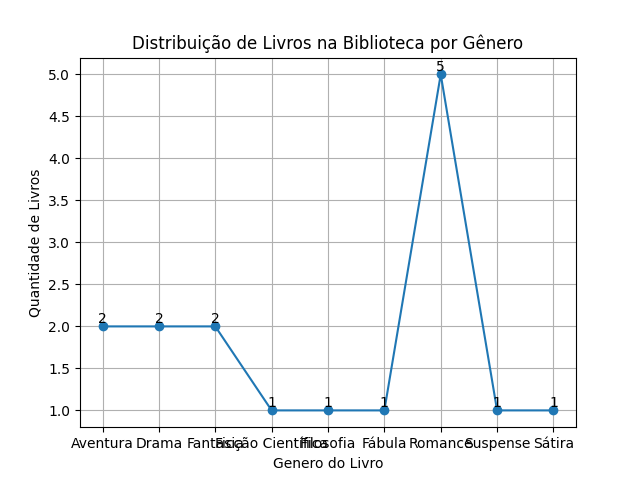
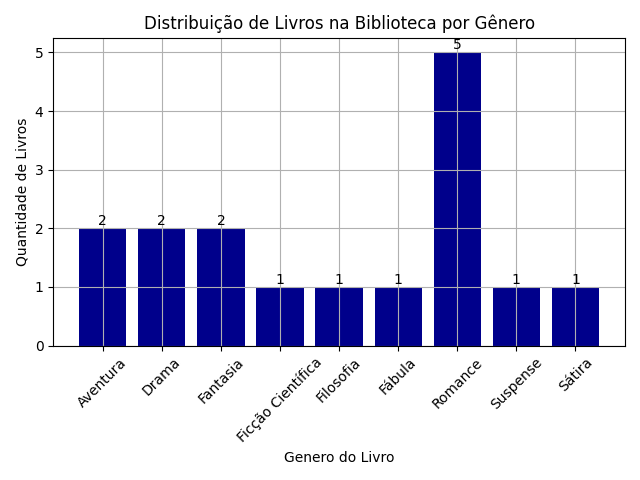
13SET2025
Correção do trabalho da unidade 2 e atualização do README.

diff --git a/ADS-Trabalho-Unidade_2-Biblioteca.py b/ADS-Trabalho-Unidade_2-Biblioteca.py
@@ -1,109 +1,116 @@
 import matplotlib.pyplot as plt
+
 # Classe para representar um livro
-class Livro:
-  def __init__(self, titulo, autor, genero, quantidade):
-    self.titulo = titulo
-    self.autor = autor
-    self.genero = genero
-    self.quantidade = quantidade
-  def __str__(self):
+class Livro: # Define a classe Livro
+
+  def __init__(self, titulo, autor, genero, quantidade): # Construtor da classe Livro
+    self.titulo = titulo # Atributo titulo
+    self.autor = autor # Atributo autor
+    self.genero = genero # Atributo genero
+    self.quantidade = quantidade # Atributo quantidade
+
+  def __str__(self): # Método para representar o livro como string
     return f'\033[32m{self.titulo}\033[0m por \033[33m{self.autor}\033[0m, Gênero: \033[31m{self.genero}\033[0m, Quantidade disponível: \033[36m{self.quantidade}\033[0m'
 
 # Criar uma lista de livros
-biblioteca = []
+biblioteca = [] # Lista para armazenar os livros
 
 # Função para adicionar um livro à biblioteca
-def adicionar_livro(titulo, autor, genero, quantidade):
-  novo_livro = Livro(titulo, autor, genero, quantidade)
-  biblioteca.append(novo_livro)
-  print(f'{titulo} foi adicionado à biblioteca.')
+def adicionar_livro(titulo, autor, genero, quantidade): # Função para adicionar livro
+  novo_livro = Livro(titulo, autor, genero, quantidade) # Cria uma nova instância de Livro
+  biblioteca.append(novo_livro) # Adiciona o novo livro à lista biblioteca
+  print(f'\n\033[32m{titulo}\033[0m foi adicionado à biblioteca.') # Confirmação de adição
 
 # Função para excluir livro da biblioteca
-def excluir_livro(titulo):
-  for livro in biblioteca:
-    if livro.titulo.lower() == titulo.lower():
-      biblioteca.remove(livro)
-      print(f'\n\033[31m{titulo} foi removido da biblioteca.\033[m')
-      return
-  print('Livro não encontrado.')
+def excluir_livro(titulo): # Função para excluir livro
+  for livro in biblioteca: # Percorre a lista de livros
+    if livro.titulo.lower() == titulo.lower(): # Verifica se o título corresponde (ignorando maiúsculas/minúsculas)
+      biblioteca.remove(livro) # Remove o livro da lista
+      print(f'\n\033[31m{titulo} foi removido da biblioteca.\033[m') # Confirmação de remoção
+      return # Sai da função após remover o livro
+  print('Livro não encontrado.') # Mensagem se o livro não for encontrado
 
 # Função para listar todos os livros na biblioteca
-def listar_livros():
+def listar_livros(): # Função para listar livros
   print(f'\n\033[34mLivros Disponíveis na Biblioteca\033[0m')
-  for livro in biblioteca:
+  for livro in biblioteca: # Percorre a lista de livros
     print(livro)
 
 # Função para buscar livro na biblioteca
-def buscar_livro(titulo):
-  for livro in biblioteca:
-    if livro.titulo.lower() == titulo.lower():
-      return livro
-  return None
-
-# Definição de Menu de Opções
-def menu_principal():
-  while True:
-    menu = int(input('\nEscolha a função desejada:\n 1 - Cadastrar um Livro\n 2 - Excluir um Título  do Cadastro\n 3 - Exibir Lista de Livros\n 4 - Busca por Livro\n 5 - Exibir Gráfico por Gênero\n 6 - Sair\n'))
-    if menu == 1:
-      titulo = input('Digite o título do livro: ')
-      autor = input('Digite o autor do livro: ')
-      genero = input('Digite o gênero do livro: ')
-      quantidade = int(input('Digite a quantidade disponível do livro: '))
-      adicionar_livro(titulo, autor, genero, quantidade)
-    
-    elif menu == 2:
-      titulo = input('Digite o título do livro que deseja excluir: ')
-      excluir_livro(titulo)
-      
-    elif menu == 3:
-      listar_livros()
-    
-    elif menu == 4:
-      titulo = input('Digite o título do livro que deseja buscar: ')
-      livro = buscar_livro(titulo)
-      if livro:
-        print(livro)
-      else:
-        print('Livro não encontrado.')
-    
-    elif menu == 5:
-      gerar_grafico_por_genero()
-      continue
-    
-    elif menu == 6:
-      print('Saindo do programa...')
-      break
-    
-    else:
-      print('Opção inválida. Tente novamente.')
+def buscar_livro(titulo): # Função para buscar livro
+  for livro in biblioteca: # Percorre a lista de livros
+    if livro.titulo.lower() == titulo.lower(): # Verifica se o título corresponde (ignorando maiúsculas/minúsculas)
+      return livro # Retorna o livro encontrado
+  return None # Retorna None se o livro não for encontrado
 
 def gerar_grafico_por_genero():
   # Criar um gráfico de livros por gênero
-  generos = [livro.genero for livro in biblioteca]
+  generos = [livro.genero for livro in biblioteca] # Lista de gêneros dos livros
   generos_unicos = list(set(generos)) # Remove duplicatas dos generos
-  generos_unicos.sort()
+  generos_unicos.sort() # Ordena os gêneros alfabeticamente
 
   # Contagem de livros por gênero
-  contagem_por_genero = [generos.count(genero) for genero in generos_unicos]
+  contagem_por_genero = [generos.count(genero) for genero in generos_unicos] # Conta quantos livros há em cada gênero
 
   # Criar um gráfico de linha
-  plt.plot(generos_unicos, contagem_por_genero, marker='o', linestyle='-')
-  plt.xlabel('Genero do Livro')
-  plt.ylabel('Quantidade de Livros')
-  plt.title('Distribuição de Livros na Biblioteca por Gênero')
+  plt.bar(generos_unicos, contagem_por_genero, color='darkblue') #
+  plt.xlabel('Genero do Livro') # Rótulo do eixo x
+  plt.ylabel('Quantidade de Livros') # Rótulo do eixo y
+  plt.title('Distribuição de Livros na Biblioteca por Gênero') # Título do gráfico
 
   # Adicionar rótulos aos pontos de dados
-  for i, valor in enumerate(contagem_por_genero):
-    plt.text(generos_unicos[i], valor, str(valor), ha='center', va='bottom')
-  plt.grid(True)
+  for i, valor in enumerate(contagem_por_genero): # Adiciona rótulos aos pontos de dados
+    plt.text(generos_unicos[i], valor, str(valor), ha='center', va='bottom') # Posiciona os rótulos
+  plt.grid(True) # Adiciona uma grade ao gráfico
+  plt.xticks(rotation=45) # Rotaciona os rótulos do eixo x para melhorar a legibilidade
 
-  #Salvar o gráfico como imagem
+  #Exibir o gráfico
+  plt.tight_layout() # Ajusta o layout do gráfico
+  plt.show() # Exibe o gráfico
+
+  # Salvar o gráfico como imagem
   plt.savefig('livros_por_genero_quantidade.png')  # Salva o gráfico como imagem
-  print("\nGráfico salvo como 'livros_por_genero_quantidade.png' na pasta atual.\n")
+  print("\nGráfico salvo como 'livros_por_genero_quantidade.png' na pasta atual.\n") # Confirmação de salvamento do gráfico
 
-  #Exibir o gráfico   
-  plt.show()
-  
+# Definição de Menu de Opções
+def menu_principal(): # Função para o menu principal
+  print('\n\033[35mBem-vindo à Biblioteca Virtual!\033[0m')
+  while True: # Loop infinito para o menu
+    menu = int(input('\nEscolha a função desejada:\n\n 1 - Cadastrar um Livro\n 2 - Excluir um Título  do Cadastro\n 3 - Exibir Lista de Livros\n 4 - Busca por Livro\n 5 - Exibir Gráfico por Gênero\n 6 - Sair\n\n Digite sua opção:   ')) # Opções do menu
+    if menu == 1: # Opção para adicionar livro
+      titulo = input('Digite o título do livro: ') # Solicita o título do livro
+      autor = input('Digite o autor do livro: ') # Solicita o autor do livro
+      genero = input('Digite o gênero do livro: ') # Solicita o gênero do livro
+      quantidade = int(input('Digite a quantidade disponível do livro: ')) # Solicita a quantidade disponível do livro
+      adicionar_livro(titulo, autor, genero, quantidade) # Chama a função para adicionar o livro
+
+    elif menu == 2: # Opção para excluir livro
+      titulo = input('Digite o título do livro que deseja excluir: ') # Solicita o título do livro a ser excluído
+      excluir_livro(titulo) # Chama a função para excluir o livro
+
+    elif menu == 3: # Opção para listar livros
+      listar_livros() # Chama a função para listar os livros
+
+    elif menu == 4: # Opção para buscar livro
+      titulo = input('Digite o título do livro que deseja buscar: ') # Solicita o título do livro a ser buscado
+      livro = buscar_livro(titulo) # Chama a função para buscar o livro
+      if livro: # Se o livro for encontrado
+        print(livro) # Exibe as informações do livro
+      else: # Se o livro não for encontrado
+        print('Livro não encontrado.') # Mensagem de livro não encontrado
+
+    elif menu == 5: # Opção para gerar gráfico por gênero
+      gerar_grafico_por_genero() # Chama a função para gerar o gráfico
+      continue
+
+    elif menu == 6: # Opção para sair do programa
+      print('\nSaindo do programa...\n') # Mensagem de saída
+      break # Sai do loop e termina o programa
+
+    else:
+      print('Opção inválida. Tente novamente.') # Mensagem de opção inválida
+
+
 # Adicionando alguns livros à biblioteca para povoar o catálogo
 adicionar_livro('Dom Quixote','Miguel de Cervantes', 'Romance', 10)
 adicionar_livro('Orgulho e Preconceito','Jane Austen', 'Romance', 5)
@@ -122,6 +129,7 @@ adicionar_livro('A Menina que Roubava Livros','Markus Zusak', 'Drama', 5)
 adicionar_livro('O Iluminado','Stephen King', 'Suspense', 3)
 adicionar_livro('O Silmarillion','J.R.R. Tolkien', 'Fantasia', 5)
 
+
 ''' Mais alguns livros para adicionar manualmente:
 O Nome do Vento, Patrick Rothfuss, Fantasia;
 O Morro dos Ventos Uivantes, Emilu Bronte, Romance;
@@ -130,6 +138,7 @@ O Grande Gatsby, F. Scott Fitzgerald, Romance;
 Neuromancer, William Gibson, Ficção Científica;
 '''
 
-menu_principal()
+# Iniciar o menu principal
+menu_principal() # Chama a função do menu principal
 
-print('\n\033[31mPROGRAMA FINALIZADO\033[0m')
+print('\n\033[31mPROGRAMA FINALIZADO\033[0m') # Mensagem de programa finalizado

diff --git a/README.md b/README.md
@@ -18,6 +18,8 @@
  #### Aula 5
  - Exemplo de programa de catalogação de livros em uma biblioteca
 
+ #### Atividade
+ - Trabalho de encerramento da unidade
 
 
 
